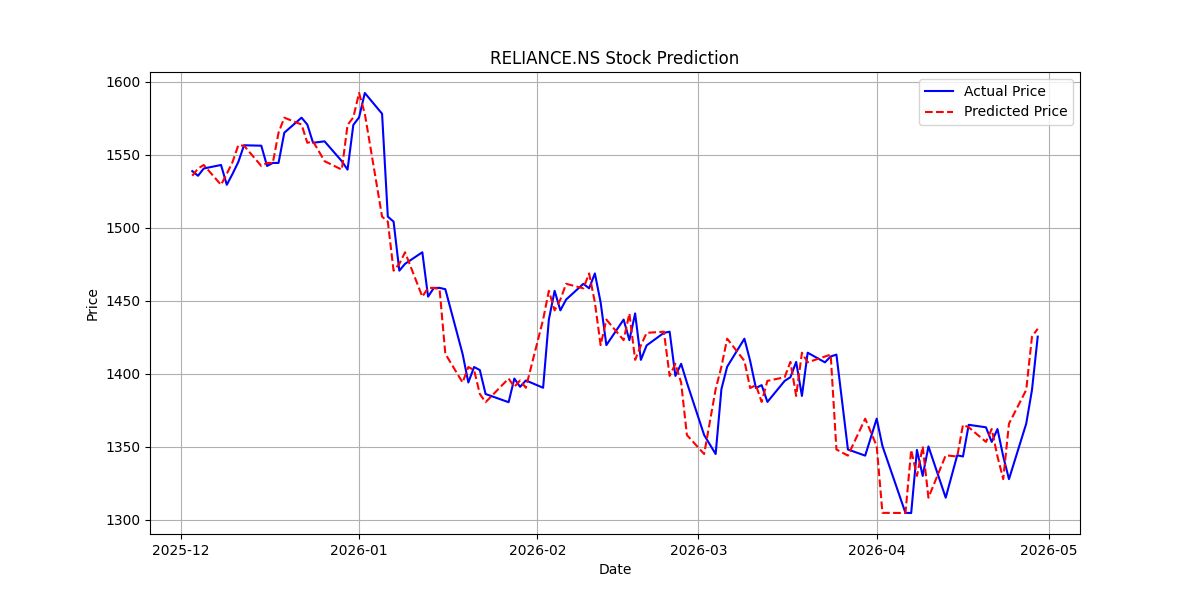
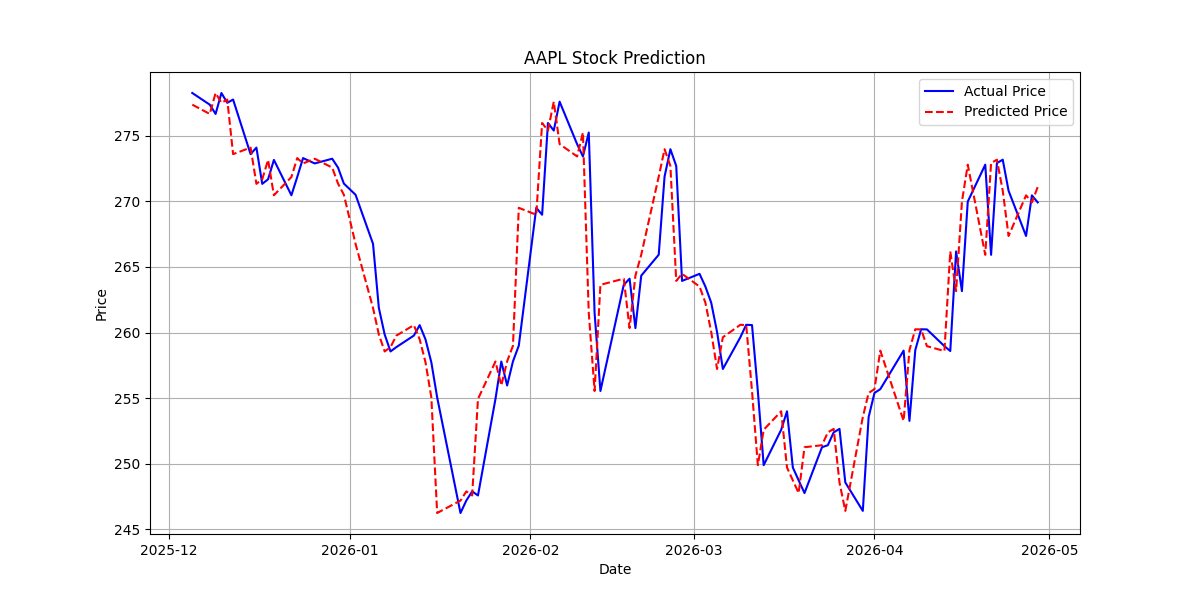
Updated dashboard features and yfinance compatibility

diff --git a/templates/index.html b/templates/index.html
@@ -490,7 +490,26 @@
 
             text-shadow:0 0 15px #ef4444;
 
-        }
+        } 
+      .error-box{
+
+        margin-top:20px;
+
+        background:#7f1d1d;
+
+        color:white;
+
+       padding:15px;
+
+       border-radius:15px;
+
+        font-weight:bold;
+
+       text-align:center;
+
+        box-shadow:0 0 15px rgba(239,68,68,0.4);
+
+      }
 
         /* GRAPH */
 
@@ -688,14 +707,18 @@
                 </button>
 
             </form>
-            {% if prediction_text %}
-             <h2 style="color:white;">
-                {{ prediction_text }}
-                </h2>
-            {% endif %}
-       
-
+           
+           
         </div>
+        {% if error %}
+
+       <div class="error-box">
+
+       {{ error }}
+
+       </div>
+
+       {% endif %}
      
         {% if prediction %}
 
@@ -802,3 +825,4 @@ updateClock();
 </body>
 
 </html>
+

diff --git a/app.py b/app.py
@@ -1,15 +1,18 @@
-from flask import Flask,render_template,request
+from flask import Flask, render_template, request
 import yfinance as yf
 import pandas as pd
 import numpy as np
 import matplotlib
-matplotlib.use('Agg')  
+
+# For Render deployment
+matplotlib.use('Agg')
+
 import matplotlib.pyplot as plt
 import joblib
 
 app = Flask(__name__)
 
-# Load trained model
+# Load trained ML model
 model = joblib.load('stock_model.pkl')
 
 # =========================
@@ -18,6 +21,7 @@ model = joblib.load('stock_model.pkl')
 
 @app.route('/')
 def home():
+
     return render_template('index.html')
 
 # =========================
@@ -27,50 +31,49 @@ def home():
 @app.route('/predict', methods=['POST'])
 def predict():
 
-    # Get stock symbol from form
+    # Get stock symbol from HTML form
     stock = request.form['stock']
 
-    # Download latest stock data
+    # Download stock data
     data = yf.download(
-     tickers=stock,
-     period="1y",
-     interval="1d",
-     progress=False,
-     auto_adjust=True,
-     threads=False
-    )
 
-    print(data.head())
-    print("Rows:", len(data))
+        stock,
+
+        start='2020-01-01',
+
+        end='2026-5-1'
+
+    )
+    # Check if stock data exists
+
     if data.empty:
-     return render_template(
-     "index.html",
-     prediction_text="Invalid stock symbol or no data found"
-     )
+
+      return render_template(
+
+        'index.html',
+
+        error="❌ Stock data not found. Please enter a valid stock symbol."
+
+    )
 
     # Keep only Close prices
     data = data[['Close']]
 
-    # Create prediction column
+    # Create next day prediction column
     data['Prediction'] = data[['Close']].shift(-1)
-    data.dropna(inplace=True)
 
     # Features and labels
     X = np.array(data.drop(['Prediction'], axis=1))[:-1]
 
     y = np.array(data['Prediction'])[:-1]
 
-    # Train model
-    model.fit(X, y)
-
-    # Latest price
+    # Latest stock price
     last_price = np.array(data[['Close']].tail(1))
 
-    # Predict next day price
+    # Predict next day stock price
     next_prediction = model.predict(last_price)
 
     predicted_price = round(float(next_prediction[0]), 2)
-   
 
     # =========================
     # CREATE GRAPH
@@ -82,7 +85,7 @@ def predict():
 
     graph_data.dropna(inplace=True)
 
-    # Graph figure
+    # Create graph figure
     plt.figure(figsize=(12,6))
 
     # Actual prices
@@ -129,25 +132,21 @@ def predict():
 
     plt.close()
 
-    # Return to HTML page
+    # Return result to HTML
     return render_template(
 
-        "index.html",
+        'index.html',
 
-        prediction_text=f"Predicted Price: ${predicted_price}",
+        prediction=predicted_price,
 
         stock=stock
 
     )
 
 # =========================
-# RUN APP
+# RUN FLASK APP
 # =========================
 
-import os
+if __name__ == '__main__':
 
-if __name__ == "__main__":
-    app.run(
-        host="0.0.0.0",
-        port=int(os.environ.get("PORT", 10000))
-    )
+    app.run(host='0.0.0.0', port=5000)
